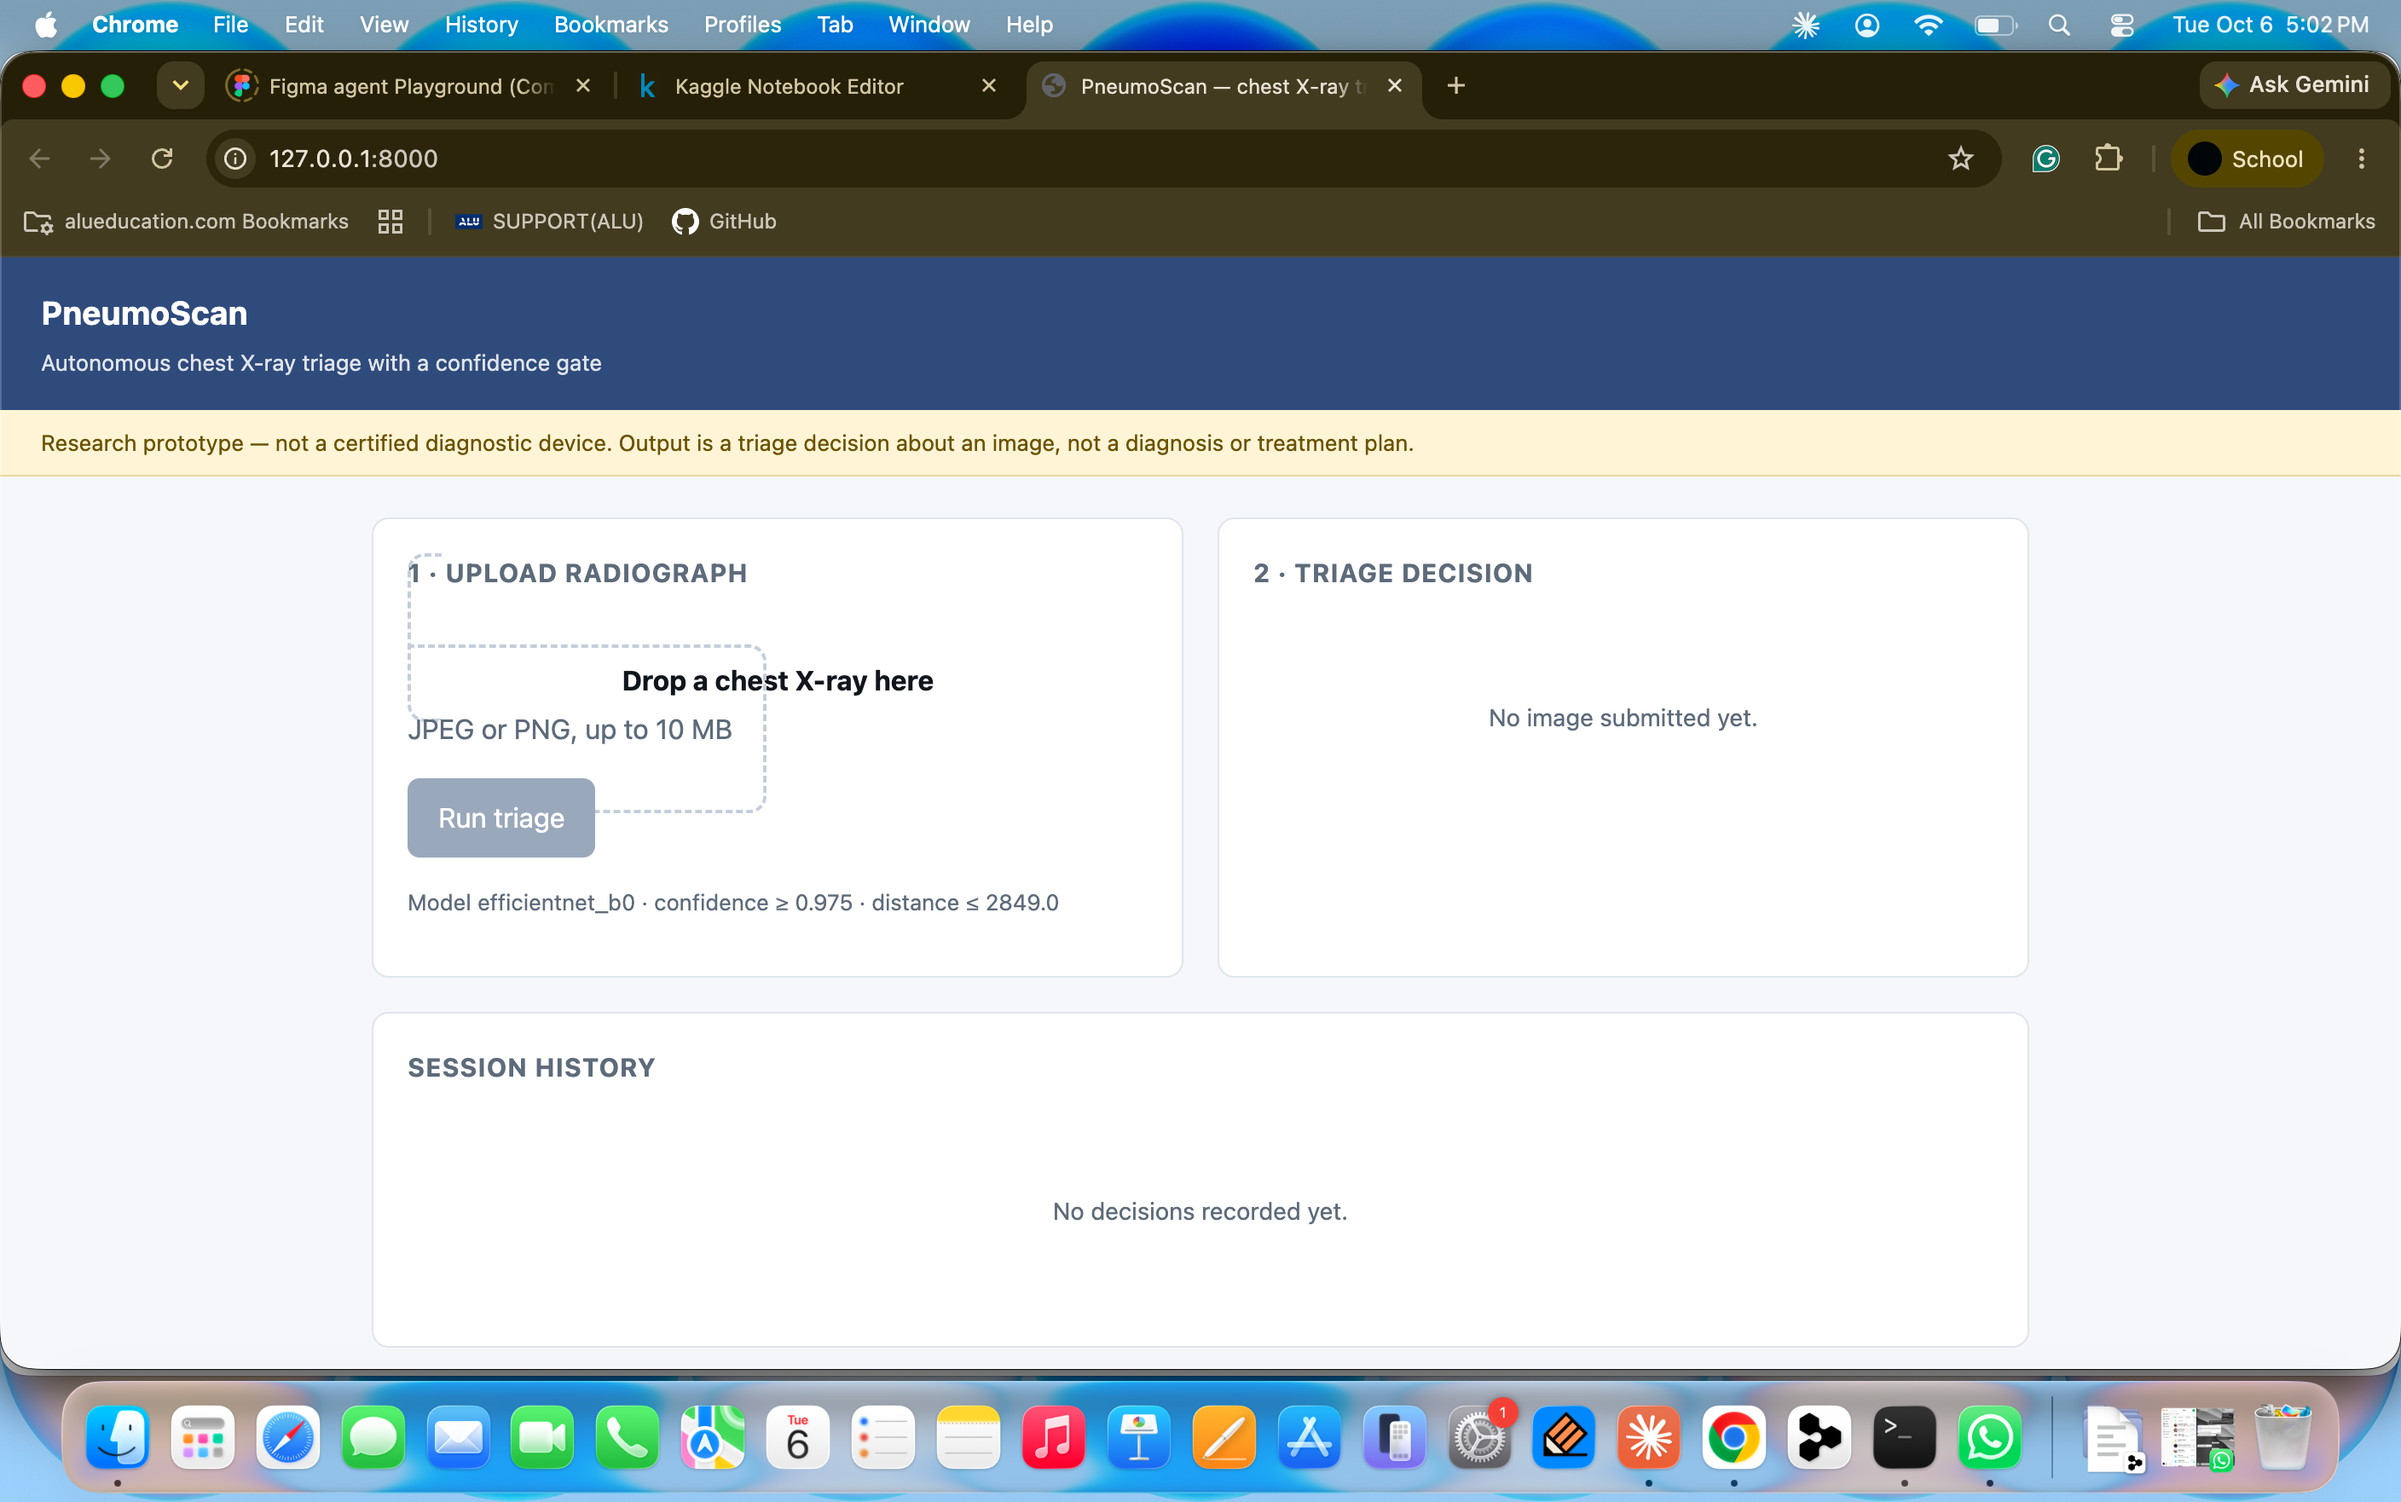
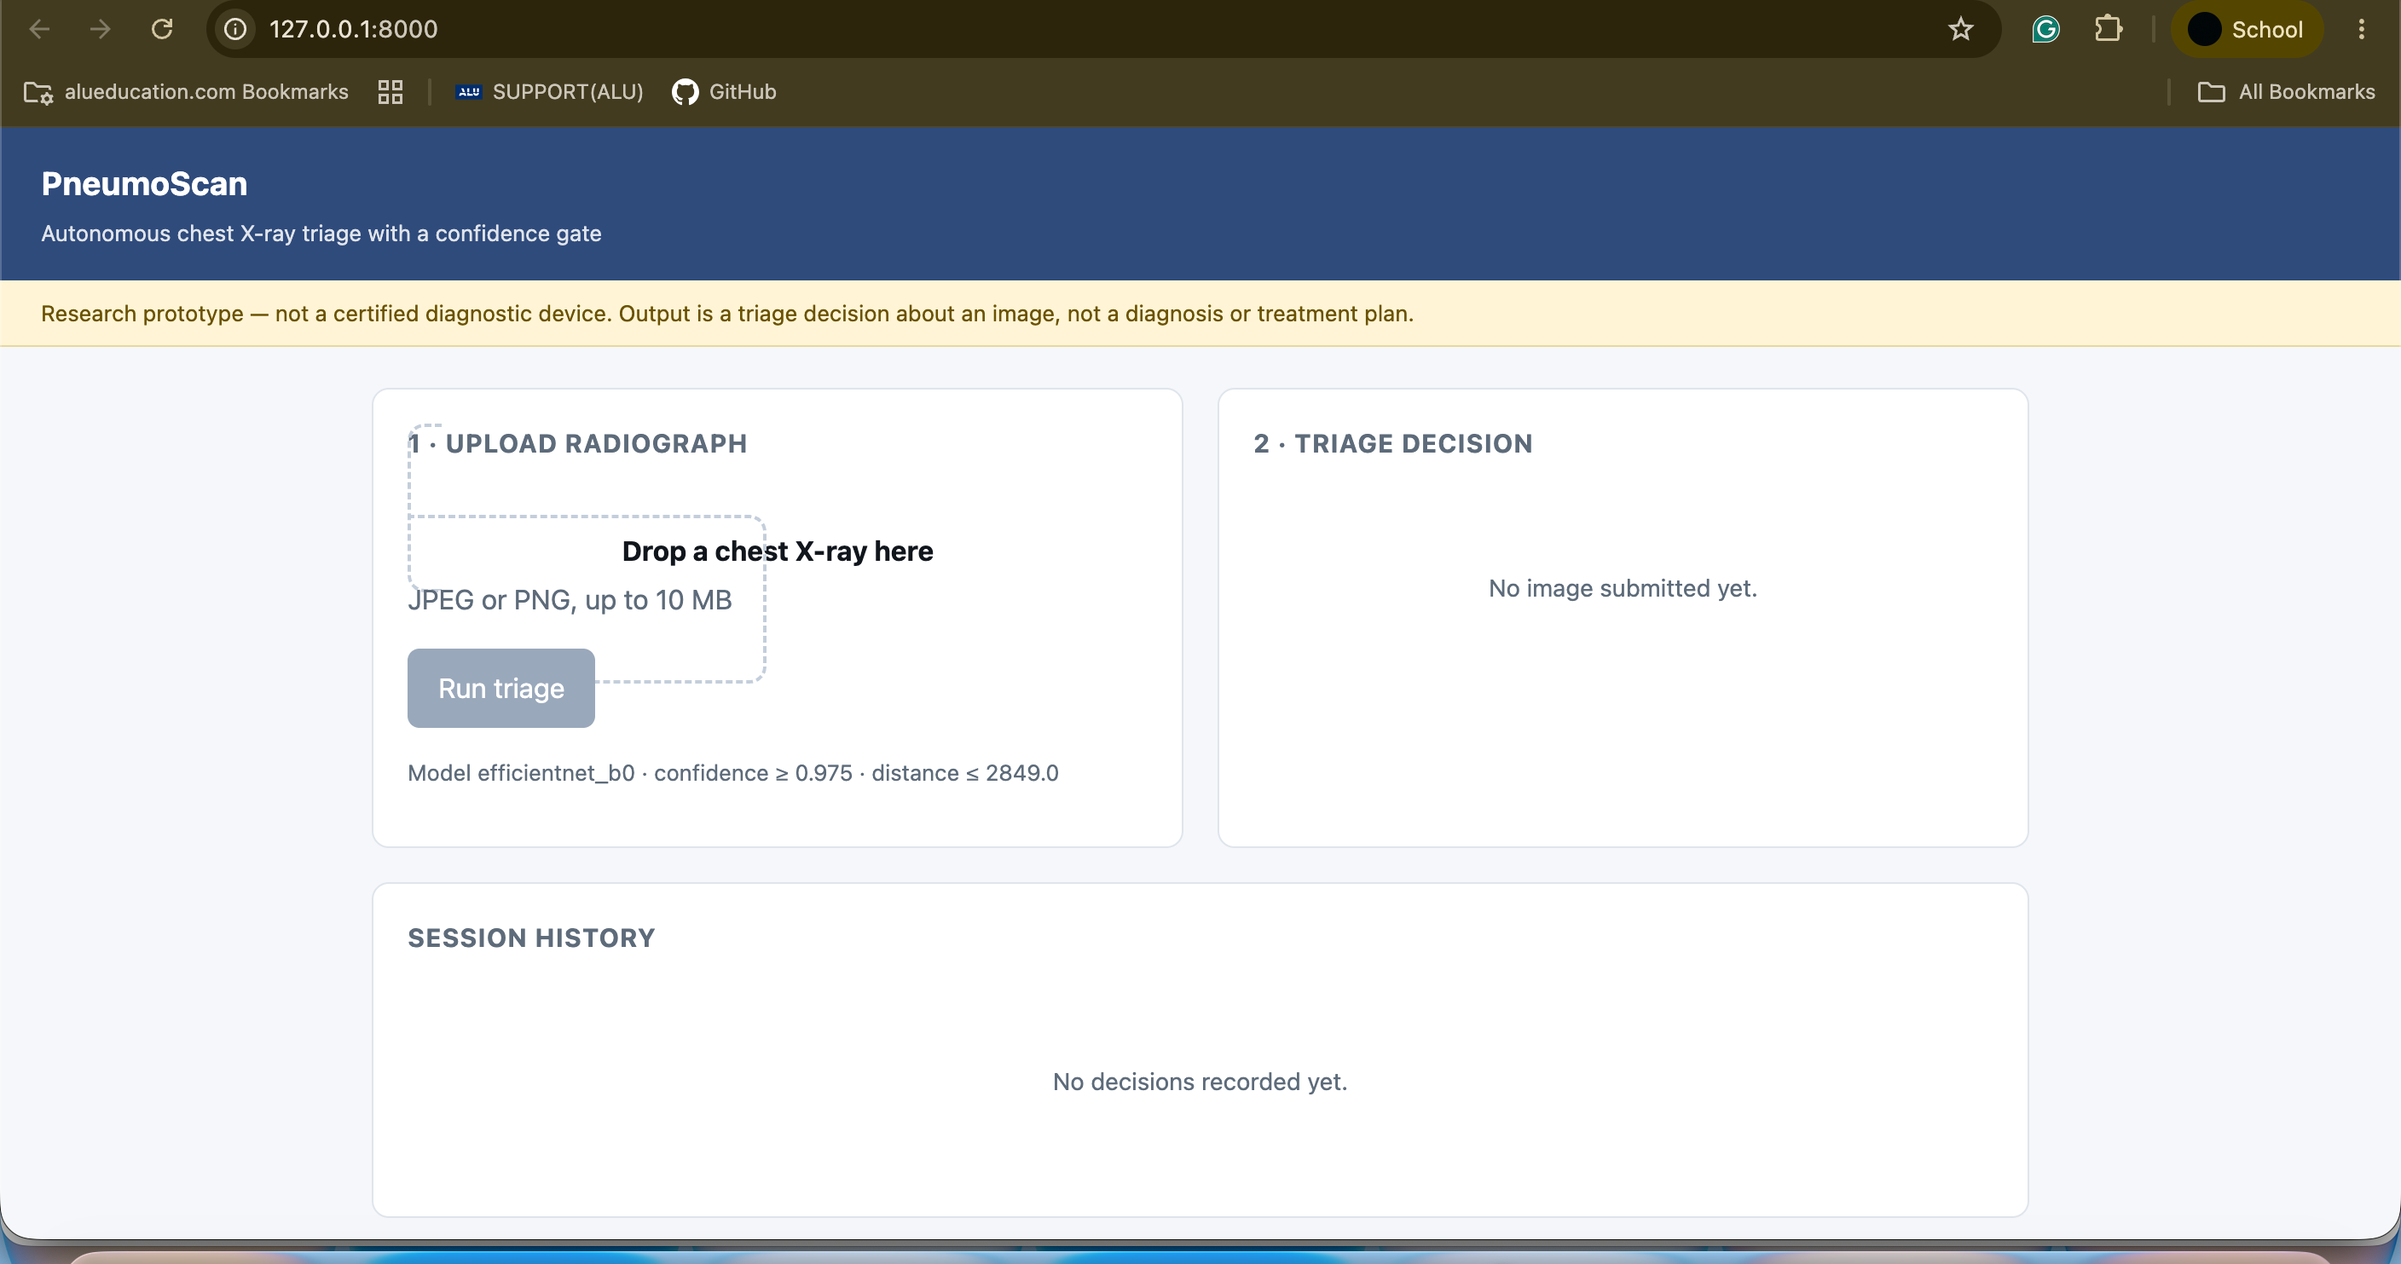
edit readme

diff --git a/README.md b/README.md
@@ -40,18 +40,15 @@ and referral stay with the clinician.
 
 ## What is implemented so far
 
-- [x] Data audit, duplicate detection, **patient-level** train/val split
-- [x] Three classical baselines: logistic regression, RBF-SVM, random forest
-- [x] Four deep models: small CNN from scratch, ResNet50, DenseNet121, EfficientNetB0
-- [x] Temperature scaling for calibration + Mahalanobis out-of-distribution scoring
-- [x] Confidence gate with both thresholds fitted on validation only, then frozen
-- [x] Grad-CAM explanations on every accepted decision
-- [x] FastAPI backend with Swagger UI
-- [x] Clinician web interface: upload, triage result, heatmap, outcome feedback, history
-- [x] SQLite persistence with an audit log of every decision
-- [ ] Out-of-distribution evaluation on adult / degraded / non-chest images
-- [ ] PDF report export
-- [ ] Usability testing with clinicians
+- Data audit, duplicate detection, **patient-level** train/val split
+- Three classical baselines: logistic regression, RBF-SVM, random forest
+- Four deep models: small CNN from scratch, ResNet50, DenseNet121, EfficientNetB0
+- Temperature scaling for calibration + Mahalanobis out-of-distribution scoring
+- Confidence gate with both thresholds fitted on validation only, then frozen
+- Grad-CAM explanations on every accepted decision
+- FastAPI backend with Swagger UI
+- Clinician web interface: upload, triage result, heatmap, outcome feedback, history
+- SQLite persistence with an audit log of every decision
 
 
 
